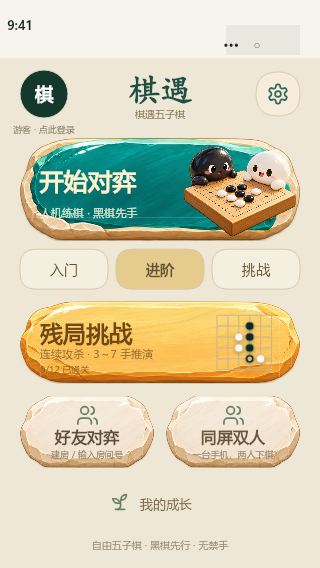
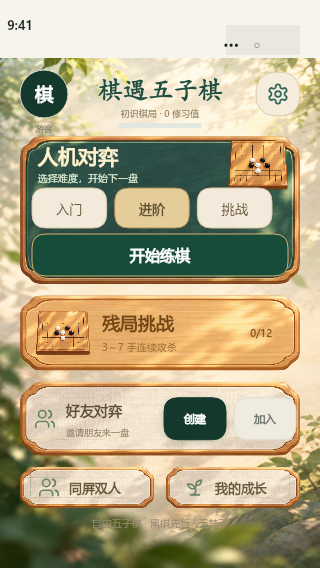
refine: match lobby to sunlit garden game style

diff --git a/game/scenes/homeScene.js b/game/scenes/homeScene.js
@@ -14,7 +14,7 @@ const { toUserMessage } = require('../../utils/userFacingError');
 const progressStore = require('../../utils/progressStore');
 const localMatchStore = require('../../utils/localMatchStore');
 const roomSession = require('../../utils/roomSession');
-const { drawMiniBoard } = require('../renderers/practiceRenderer');
+const { drawMiniBoard, drawProgressBar } = require('../renderers/practiceRenderer');
 const { drawIcon } = require('../renderers/iconRenderer');
 const lobby = require('../renderers/lobbyRenderer');
 const puzzles = require('../../utils/puzzles');
@@ -142,33 +142,38 @@ class HomeScene {
 
   getLayout() {
     const playerY = getContentTop(this.runtime.wx) + 2;
-    const start = playerY + 68;
-    const bottom = this.runtime.height - (this.runtime.bottomInset || 18) - 26;
+    const start = playerY + 66;
+    const bottom = this.runtime.height - (this.runtime.bottomInset || 18) - 14;
     const available = bottom - start;
-    const flexible = available - 128;
-    const primaryHeight = Math.min(178, flexible * 0.4);
-    const puzzleHeight = Math.min(140, flexible * 0.32);
-    const pairHeight = Math.min(104, flexible * 0.28);
-    return { playerY, start, primaryHeight, puzzleHeight, pairHeight, compact: available < 425 };
+    const budget = Math.max(0, available - 58);
+    const clamp = (value, minimum, maximum) => Math.max(minimum, Math.min(maximum, value));
+    const primaryHeight = clamp(budget * 0.4, 148, 184);
+    const puzzleHeight = clamp(budget * 0.22, 72, 102);
+    const friendHeight = clamp(budget * 0.21, 74, 98);
+    const dockHeight = clamp(budget * 0.12, 40, 54);
+    const sectionHeight = primaryHeight + puzzleHeight + friendHeight + dockHeight + 58;
+    const gap = clamp((available - sectionHeight + 30) / 3, 10, 34);
+    return { playerY, start, primaryHeight, puzzleHeight, friendHeight, dockHeight, gap, compact: available < 425 };
   }
   getActionLayout(layout = this.getLayout()) {
     const width = this.runtime.width;
     const x = 20; const w = width - 40; const half = (w - 12) / 2;
     const ai = { x, y: layout.start, width: w, height: layout.primaryHeight };
-    const difficultyY = ai.y + ai.height + 8;
-    const puzzle = { x, y: difficultyY + 52, width: w, height: layout.puzzleHeight };
-    const pairY = puzzle.y + puzzle.height + 12;
-    const friend = { x, y: pairY, width: half, height: layout.pairHeight };
-    const sheetY = Math.max(getContentTop(this.runtime.wx), (this.runtime.height - 266) / 2);
-    const create = { x: 40, y: sheetY + 116, width: width - 80, height: 44 };
-    const join = { x: 40, y: sheetY + 176, width: width - 80, height: 44 };
-    const dockY = pairY + layout.pairHeight + 12;
-    return { ai, difficultyY, puzzle, friend, create, join,
-      local: { x: x + half + 12, y: pairY, width: half, height: layout.pairHeight },
-      growth: { x, y: dockY, width: w, height: 44 },
-      fresh: { x: width - 160, y: difficultyY, width: 140, height: 40 },
+    const difficultyY = ai.y + (layout.compact ? 52 : 70);
+    const startButton = { x: x + 12, y: ai.y + ai.height - 50, width: w - 24, height: 42 };
+    const puzzle = { x, y: ai.y + ai.height + layout.gap, width: w, height: layout.puzzleHeight };
+    const pairY = puzzle.y + puzzle.height + layout.gap;
+    const friend = { x, y: pairY, width: w, height: layout.friendHeight };
+    const quickWidth = Math.min(74, Math.max(62, (w - 164) / 2));
+    const create = { x: width - 24 - quickWidth * 2 - 8, y: friend.y + (friend.height - 42) / 2, width: quickWidth, height: 42 };
+    const join = { x: create.x + quickWidth + 8, y: create.y, width: quickWidth, height: 42 };
+    const fresh = { x: startButton.x + startButton.width - 66, y: difficultyY, width: 58, height: 40 };
+    const dockY = friend.y + friend.height + layout.gap;
+    const growth = { x: x + half + 12, y: dockY, width: half, height: layout.dockHeight };
+    return { ai: startButton, hero: ai, difficultyY, startButton, puzzle, friend, create, join, fresh,
+      local: { x, y: dockY, width: half, height: layout.dockHeight }, growth,
       settings: { x: width - 64, y: layout.playerY + 2, width: 44, height: 44 },
-      noteY: dockY + 64 };
+      noteY: growth.y + layout.dockHeight + 14 };
   }
 
   render(ctx, input) {
@@ -176,62 +181,62 @@ class HomeScene {
     const layout = this.getLayout(); const actions = this.getActionLayout(layout);
     const data = progressStore.read(wx); const resume = localMatchStore.load(wx); const room = roomSession.read(wx);
     const atlas = lobby.loadAtlas(wx, this.onImageReady);
-    ctx.fillStyle = '#EEE7D6'; ctx.fillRect(0, 0, width, height);
+    const backdrop = lobby.loadBackdrop(wx, this.onImageReady);
+    ctx.fillStyle = '#F2ECDF'; ctx.fillRect(0, 0, width, height);
+    if (backdrop) ctx.drawImage(backdrop, 0, 0, width, height);
     drawAvatar(ctx, wx, this.player, 20, layout.playerY, 48, this.onImageReady);
-    drawLabel(ctx, this.player ? '我的棋遇' : '游客 · 点此登录', 44, layout.playerY + 59, 'center', { size: 9, color: '#81755E' });
+    drawLabel(ctx, this.player ? this.player.nickname : '游客', 44, layout.playerY + 58, 'center', { size: 9, color: '#81755E', maxWidth: 62 });
     if (this.player || !this.userInfoButton) input.addHitArea({ x: 20, y: layout.playerY, width: 48, height: 48 }, () => {
       if (!this.player) { this.loginWithWeChat(); return; }
       this.sheet = 'player'; this.stopAnimation(); manager.render();
     });
-    ctx.fillStyle = '#214E42'; ctx.font = '700 32px "STKaiti", "KaiTi", serif'; ctx.textAlign = 'center'; ctx.textBaseline = 'middle';
-    ctx.fillText('棋遇', width / 2, layout.playerY + 18);
-    drawLabel(ctx, '棋遇五子棋', width / 2, layout.playerY + 43, 'center', { size: 10, color: '#837456' });
+    ctx.fillStyle = '#214E42'; ctx.font = '700 25px "STKaiti", "KaiTi", serif'; ctx.textAlign = 'center'; ctx.textBaseline = 'middle';
+    ctx.fillText('棋遇五子棋', width / 2, layout.playerY + 18);
+    const rank = progressStore.level(data);
+    drawLabel(ctx, `${rank.title} · ${data.xp} 修习值`, width / 2, layout.playerY + 43, 'center', { size: 9, color: '#837456' });
+    drawProgressBar(ctx, width / 2 - 42, layout.playerY + 53, 84, rank.ratio);
     lobby.drawIconButton(ctx, input, actions.settings, 'settings', () => manager.go('settings'));
 
-    lobby.drawPlate(ctx, actions.ai, 'jade', atlas);
-    const offset = this.animationStart ? Math.sin((Date.now() - this.animationStart) / 300) * 2 : 0;
-    lobby.drawFriends(ctx, atlas, { x: width - 136, y: actions.ai.y + 8 + offset, width: 112, height: actions.ai.height - 12 });
-    drawLabel(ctx, resume ? '继续棋局' : '开始对弈', 40, actions.ai.y + actions.ai.height * 0.42, 'left', { size: width < 350 ? 24 : 28, bold: true, color: '#FFF2CD' });
-    drawLabel(ctx, resume ? (resume.mode === 'puzzle' ? '继续上次的残局' : '继续上次的人机局') : '人机练棋 · 黑棋先手', 40, actions.ai.y + actions.ai.height * 0.72, 'left', { size: 11, color: '#DAE9CF', maxWidth: width - 165 });
-    input.addHitArea(actions.ai, () => resume ? manager.go(resume.mode === 'puzzle' ? 'puzzleGame' : 'aiGame', { resume, puzzleId: resume.puzzleId }) : manager.go('aiGame'));
-    lobby.pressOverlay(ctx, input, actions.ai);
-    const difficultyWidth = (width - 56) / 3;
+    lobby.drawPlate(ctx, actions.hero, 'jade', atlas);
+    const offset = this.animationStart ? Math.sin((Date.now() - this.animationStart) / 300) * 1.5 : 0;
+    const vignetteSize = layout.compact ? 60 : 92;
+    lobby.drawFriends(ctx, atlas, { x: width - vignetteSize - 32, y: actions.hero.y + 5 + offset, width: vignetteSize, height: vignetteSize * 0.81 });
+    drawLabel(ctx, resume ? '继续对弈' : '人机对弈', 38, actions.hero.y + 20, 'left', { size: 20, bold: true, color: '#FFF2CD', maxWidth: width - 170 });
+    drawLabel(ctx, resume ? (resume.mode === 'puzzle' ? '上次残局已为你保存' : '接着上次的棋局继续') : '选择难度，开始下一盘', 38, actions.hero.y + 41, 'left', { size: 10, color: '#DAE9CF', maxWidth: width - 170 });
+    const difficultyWidth = (width - 96) / 3;
     if (resume) {
-      drawLabel(ctx, resume.mode === 'puzzle' ? '还有一道残局未完成' : '上次的人机局未结束', 24, actions.difficultyY + 20, 'left', { size: 11, color: '#8B7957', maxWidth: width - 192 });
-      drawButton(ctx, input, { ...actions.fresh, text: '新开人机局', variant: 'gold', fontSize: 13, onTap: () => manager.go('aiGame') });
+      drawLabel(ctx, '继续上局', 28, actions.difficultyY + 20, 'left', { size: 12, color: '#8B7957' });
     } else [['easy','入门'],['normal','进阶'],['hard','挑战']].forEach(([id,label], index) => {
-      const rect = { x: 20 + index * (difficultyWidth + 8), y: actions.difficultyY, width: difficultyWidth, height: 40 };
-      drawCard(ctx, { ...rect, radius: 16, fill: data.settings.difficulty === id ? '#E6CB8E' : '#F5EFDF', stroke: '#D8C9A9', shadow: false });
-      drawLabel(ctx, label, rect.x + rect.width / 2, rect.y + 20, 'center', { size: 14, bold: data.settings.difficulty === id, color: '#645235' });
+      const rect = { x: 32 + index * (difficultyWidth + 8), y: actions.difficultyY, width: difficultyWidth, height: 40 };
+      drawCard(ctx, { ...rect, radius: 14, fill: data.settings.difficulty === id ? '#E4CD98' : '#F3EADC', stroke: data.settings.difficulty === id ? '#AB8B51' : '#D8C9A9', shadow: false });
+      drawLabel(ctx, label, rect.x + rect.width / 2, rect.y + 20, 'center', { size: 13, bold: data.settings.difficulty === id, color: '#645235' });
       input.addHitArea(rect, () => { progressStore.setSetting(wx, 'difficulty', id); manager.render(); });
     });
+    const startText = resume ? '继续这盘' : '开始练棋';
+    drawButton(ctx, input, { ...actions.startButton, text: startText, variant: 'primary', fill: '#174B3A', stroke: '#D2B16D', fontSize: 15, onTap: () => resume ? manager.go(resume.mode === 'puzzle' ? 'puzzleGame' : 'aiGame', { resume, puzzleId: resume.puzzleId }) : manager.go('aiGame') });
+    if (resume) drawButton(ctx, input, { ...actions.fresh, text: '新开', variant: 'gold', fontSize: 12, onTap: () => manager.go('aiGame') });
 
     lobby.drawPlate(ctx, actions.puzzle, 'gold', atlas);
-    drawLabel(ctx, '残局挑战', 40, actions.puzzle.y + actions.puzzle.height * 0.38, 'left', { size: width < 350 ? 23 : 26, bold: true, color: '#714716' });
-    drawLabel(ctx, '连续攻杀 · 3～7 手推演', 40, actions.puzzle.y + actions.puzzle.height * 0.63, 'left', { size: 11, color: '#946A31' });
-    const boardSize = Math.min(66, actions.puzzle.height - 28);
-    drawMiniBoard(ctx, width - 103, actions.puzzle.y + (actions.puzzle.height - boardSize) / 2, boardSize);
+    const puzzleBoardSize = Math.min(58, actions.puzzle.height - 16);
+    lobby.drawFriends(ctx, atlas, { x: actions.puzzle.x + 14, y: actions.puzzle.y + (actions.puzzle.height - puzzleBoardSize * 0.76) / 2, width: puzzleBoardSize, height: puzzleBoardSize * 0.76 });
+    drawLabel(ctx, '残局挑战', actions.puzzle.x + 82, actions.puzzle.y + actions.puzzle.height * 0.37, 'left', { size: width < 350 ? 18 : 20, bold: true, color: '#714716' });
+    drawLabel(ctx, '3～7 手连续攻杀', actions.puzzle.x + 82, actions.puzzle.y + actions.puzzle.height * 0.68, 'left', { size: 10, color: '#946A31', maxWidth: width - 148 });
     const cleared = puzzles.CHALLENGES.filter(puzzle => data.puzzles[puzzle.id]).length;
-    drawLabel(ctx, `${cleared}/12 已通关`, 40, actions.puzzle.y + actions.puzzle.height * 0.82, 'left', { size: 9, color: '#8A5D28' });
+    drawLabel(ctx, `${cleared}/12`, width - 48, actions.puzzle.y + actions.puzzle.height * 0.5, 'right', { size: 10, bold: true, color: '#8A5D28' });
     input.addHitArea(actions.puzzle, () => manager.go('puzzleList')); lobby.pressOverlay(ctx, input, actions.puzzle);
 
     lobby.drawPlate(ctx, actions.friend, 'cream', atlas);
-    const showPairIcons = actions.friend.height >= 70;
-    if (showPairIcons) drawIcon(ctx, 'users', actions.friend.x + actions.friend.width / 2 - 11, actions.friend.y + 8, 23, '#668367');
-    drawLabel(ctx, '好友对弈', actions.friend.x + actions.friend.width / 2, actions.friend.y + actions.friend.height * (showPairIcons ? 0.57 : 0.4), 'center', { size: width < 350 ? 16 : 18, bold: true, color: '#5C503B' });
-    drawLabel(ctx, room ? '有未结束的好友房' : '建房 / 输入房间号', actions.friend.x + actions.friend.width / 2, actions.friend.y + actions.friend.height * 0.81, 'center', { size: 9, color: '#92816B' });
-    input.addHitArea(actions.friend, () => { this.sheet = 'friend'; this.destroyWeChatLoginButton(); this.stopAnimation(); manager.render(); });
-    lobby.pressOverlay(ctx, input, actions.friend);
-    [[actions.local,'users','同屏双人','localGame']].forEach(([rect, icon, label, scene]) => {
+    drawIcon(ctx, 'users', actions.friend.x + 14, actions.friend.y + actions.friend.height / 2 - 11, 22, '#668367');
+    drawLabel(ctx, '好友对弈', actions.friend.x + 46, actions.friend.y + actions.friend.height * 0.38, 'left', { size: width < 350 ? 14 : 17, bold: true, color: '#5C503B' });
+    drawLabel(ctx, room ? '好友房已保存' : '邀请朋友来一盘', actions.friend.x + 46, actions.friend.y + actions.friend.height * 0.68, 'left', { size: 9, color: '#92816B', maxWidth: actions.create.x - actions.friend.x - 52 });
+    drawButton(ctx, input, { ...actions.create, text: room ? '继续' : '创建', variant: 'primary', fontSize: 11, onTap: () => room ? manager.go(room.waiting ? 'waitRoom' : 'onlineGame', room) : manager.go('createRoom') });
+    drawButton(ctx, input, { ...actions.join, text: '加入', variant: 'gold', fontSize: 11, onTap: () => manager.go('joinRoom') });
+    [[actions.local,'users','同屏双人','localGame'],[actions.growth,'sprout','我的成长','growth']].forEach(([rect, icon, label, scene]) => {
       lobby.drawPlate(ctx, rect, 'cream', atlas);
-      if (showPairIcons) drawIcon(ctx, icon, rect.x + rect.width / 2 - 11, rect.y + 8, 23, '#668367');
-      drawLabel(ctx, label, rect.x + rect.width / 2, rect.y + rect.height * (showPairIcons ? 0.57 : 0.4), 'center', { bold: true, size: width < 350 ? 16 : 18, color: '#65583D' });
-      drawLabel(ctx, '一台手机，两人下棋', rect.x + rect.width / 2, rect.y + rect.height * 0.81, 'center', { size: 9, color: '#92816B' });
+      drawIcon(ctx, icon, rect.x + 18, rect.y + (rect.height - 22) / 2, 22, '#668367');
+      drawLabel(ctx, label, rect.x + 49, rect.y + rect.height / 2, 'left', { bold: true, size: width < 350 ? 13 : 14, color: '#65583D' });
       input.addHitArea(rect, () => manager.go(scene)); lobby.pressOverlay(ctx, input, rect);
     });
-    drawIcon(ctx, 'sprout', width / 2 - 51, actions.growth.y + 11, 22, '#668367');
-    drawLabel(ctx, '我的成长', width / 2 - 20, actions.growth.y + 23, 'left', { size: 13, color: '#7C6A4B' });
-    input.addHitArea(actions.growth, () => manager.go('growth'));
     drawLabel(ctx, '自由五子棋 · 黑棋先行 · 无禁手', width / 2, actions.noteY, 'center', { size: 10, color: '#9A8B73' });
     if (this.sheet === 'player') this.drawPlayerSheet(ctx, input, data);
     if (this.sheet === 'friend') this.drawFriendSheet(ctx, input, room);

diff --git a/game/renderers/lobbyRenderer.js b/game/renderers/lobbyRenderer.js
@@ -1,9 +1,11 @@
 const { drawCard, roundedRectPath } = require('./cardRenderer');
 const { drawIcon } = require('./iconRenderer');
 const caches = new WeakMap();
+const backdropCaches = new WeakMap();
 const ATLAS = 'assets/lobby-sprites.png';
+const BACKDROP = 'assets/lobby-garden.jpg';
 // Atlas bounds are verified by the native Canvas preview; no generated text is used.
-const REGIONS = { jade: [20,241,598,241], gold: [636,241,599,241], cream: [21,818,599,236], friends: [659,713,557,447] };
+const REGIONS = { jade: [13,271,603,249], gold: [641,272,601,249], cream: [13,791,602,252], friends: [665,620,556,453] };
 
 function loadAtlas(wxApi, onReady) {
   if (!wxApi || !wxApi.createImage) return null;
@@ -22,6 +24,23 @@ function loadAtlas(wxApi, onReady) {
   return null;
 }
 
+function loadBackdrop(wxApi, onReady) {
+  if (!wxApi || !wxApi.createImage) return null;
+  let entry = backdropCaches.get(wxApi);
+  if (entry) {
+    if (entry.ready) return entry.image;
+    if (!entry.failed && onReady) entry.callbacks.add(onReady);
+    return null;
+  }
+  const image = wxApi.createImage();
+  entry = { image, ready: false, failed: false, callbacks: new Set(onReady ? [onReady] : []) };
+  backdropCaches.set(wxApi, entry);
+  image.onload = () => { entry.ready = true; entry.callbacks.forEach(callback => callback()); entry.callbacks.clear(); };
+  image.onerror = () => { entry.failed = true; entry.callbacks.clear(); };
+  image.src = BACKDROP;
+  return null;
+}
+
 function drawPlate(ctx, rect, kind, atlas) {
   if (!atlas) {
     drawCard(ctx, { ...rect, radius: 22, fill: { jade: '#227568', gold: '#F2C46F', cream: '#F7EEDC' }[kind], stroke: '#D6BC83' });
@@ -29,7 +48,7 @@ function drawPlate(ctx, rect, kind, atlas) {
   }
   const [sx, sy, sw, sh] = REGIONS[kind];
   // Nine-slice retains the painted bevel when panels have different proportions.
-  const edge = 54; const target = Math.min(24, rect.width / 4, rect.height / 4);
+  const edge = 54; const target = Math.min(16, rect.width / 4, rect.height / 4);
   const srcX = [sx, sx + edge, sx + sw - edge]; const srcY = [sy, sy + edge, sy + sh - edge];
   const srcW = [edge, sw - 2 * edge, edge]; const srcH = [edge, sh - 2 * edge, edge];
   const dstX = [rect.x, rect.x + target, rect.x + rect.width - target]; const dstY = [rect.y, rect.y + target, rect.y + rect.height - target];
@@ -53,4 +72,4 @@ function pressOverlay(ctx, input, rect) {
   ctx.save(); roundedRectPath(ctx, rect.x, rect.y, rect.width, rect.height, 22);
   ctx.fillStyle = 'rgba(34,52,41,.12)'; ctx.fill(); ctx.restore();
 }
-module.exports = { loadAtlas, drawPlate, drawFriends, drawIconButton, pressOverlay };
+module.exports = { loadAtlas, loadBackdrop, drawPlate, drawFriends, drawIconButton, pressOverlay };

diff --git a/scripts/verify-lobby.js b/scripts/verify-lobby.js
@@ -23,10 +23,14 @@ function verifyLobbyAndSettings() {
   wx.createUserInfoButton = options => { const button = { options, onTap() {}, destroy() { this.destroyed = true; } }; native.push(button); return button; };
   manager.go('home'); let home = manager.current;
   assert.equal(native[0].options.style.width, 48, 'native login must cover only the compact avatar');
-  tap(manager, home.getActionLayout().friend);
-  assert.equal(home.sheet, 'friend'); assert(native[0].destroyed);
-  home.onHide(); home.onResume(); assert.equal(native.length, 1, 'native login must not overlay an open sheet after foregrounding');
-  home.closeSheet(); assert.equal(native.length, 2);
+  manager.runtime.cloud.createRoom = () => new Promise(() => {});
+  tap(manager, home.getActionLayout().create);
+  assert.equal(manager.current.constructor.name, 'CreateRoomScene', 'create-room action must be available directly from the lobby');
+  assert(native[0].destroyed);
+  manager.go('home'); home = manager.current;
+  tap(manager, home.getActionLayout().join);
+  assert.equal(manager.current.constructor.name, 'JoinRoomScene', 'join-room action must be available directly from the lobby');
+  manager.go('home'); home = manager.current;
   savePlayer(wx, 'local-test-only', { nickName: '棋友测试' }); manager.go('home'); home = manager.current;
   tap(manager, { x: 20, y: home.getLayout().playerY, width: 48, height: 48 });
   assert.equal(home.sheet, 'player');
@@ -62,7 +66,7 @@ function verifyLobbyAndSettings() {
   assert.equal(manager.current.mode,'ai'); assert.equal(manager.current.moves,0);
   assert.notEqual(manager.current.id, previousId, 'fresh entry must start a new match');
   manager.go('home');
-  console.log('Compact avatar, modal isolation, independent settings, real music loop and lifecycle verified');
+  console.log('Compact avatar, direct friend-room actions, independent settings, real music loop and lifecycle verified');
 }
 
 function verifyAnimation() {

diff --git a/docs/LOBBY_DESIGN_RC17.md b/docs/LOBBY_DESIGN_RC17.md
@@ -1,6 +1,6 @@
 # RC17 大厅与残局设计
 
-本轮以负责人认可的第二张概念图为风格依据，保留暖木、青绿、奶油色和棋子质感。按后续反馈收掉大型场景，将可操作玩法放在画面主体。实现仍在原有微信小游戏 Canvas 中，概念图不作为整屏背景，文字、触摸区与设置均由实际代码绘制和处理。
+本次复调以负责人最新偏好的第一张概念图为风格方向：林间日光、实木棋桌、青玉与暖纸。吸收其美术气质，同时把人机难度和开始操作、残局、好友建房/加入直接放进首页，让棋盘只作为小插图。页面继续使用原有微信小游戏 Canvas；背景与控件素材分离，中文文本、触摸区和实际数据都由代码绘制。
 
 ## 真实页面
 
@@ -13,10 +13,10 @@
 ## 布局与交互
 
 - 顶部紧凑头像、品牌和独立齿轮。头像展开详情与资料入口；游客的官方微信授权按钮仅覆盖头像。
-- 人机为主入口，三档难度可在大厅选择并记忆；有存档时可继续，也可直接新开人机局。
-- 残局为暖金入口；好友与同屏形成下方并列玩法。好友入口展开建房、进房，支持恢复等待房或对局房。
+- 人机区把三档难度和开始练棋放在同一入口；有存档时可继续，也可新开人机局。
+- 残局使用独立的横向入口；好友房把创建和加入房间按钮直接展示在首页。下方并列同屏对弈与成长入口。
 - 成长收在下方入口，首页不展示完整个人信息、战绩表或成长面板。
-- 图像只提供按钮纹理和小棋子插画。图片异步读取、缓存复用；触摸释放才触发操作，弹层独占输入。
+- 背景是低对比的庭院日光氛围图；面板是克制的木作、玉漆和暖纸纹理。小棋盘缩在主入口与残局入口内。图片异步读取、缓存复用；触摸释放才触发操作，弹层独占输入。
 - 大厅棋子短暂入场，最多约 2.2 秒，重绘间隔不少于 42 ms，结束后静止。后台与离场取消帧，设置可关闭动效。
 - 落子音效、背景音乐、自己落子震动分别控制。原创 12 秒轻声拨弦循环默认关闭，玩家触摸后才可播放；后台暂停，恢复时按开关继续，普通点击不重启音乐。
 
@@ -32,7 +32,8 @@
 
 ## 素材与参考
 
-- `assets/lobby-sprites.png`：本轮生成的透明素材图集，约 1.02 MiB，仅 4 个部件；渲染器保留真实绘制的备用按钮。
+- `assets/lobby-sprites.png`：本轮生成的透明素材图集，约 1.24 MiB，包括深玉主面板、暖木残局面板、纸纹副面板和俯视棋盘插画。
+- `assets/lobby-garden.jpg`：日光庭院的浅景背景，约 172 KiB；文字和操作区保持清晰。
 - `assets/lobby-music.wav`：原创拨弦音列，由 `scripts/generate-lobby-music.py` 可复现生成，无外部录音采样。
 - 图标从 [Lucide](https://lucide.dev/license) 0.468.0 转成少量原生 Canvas 路径，许可保留在 `assets/LUCIDE-LICENSE.txt`，运行时不引入 npm 依赖。
 - 用户提供的游戏截图是主要视觉依据。网络检索资料包括 [王者荣耀官方大厅入口优化](https://www.taptap.cn/moment/644255183525642580)、[球球大作战入坑指南](https://wiki.biligame.com/bob/%E5%85%A5%E5%9D%91%E6%8C%87%E5%8D%97)、[贪吃蛇大作战应用页](https://app.mi.com/details?id=com.wepie.snake.new.mi)。部分远程图片直链无法读取，不将其当作已完整查看的画面证据。

diff --git a/docs/PROJECT_PROGRESS.md b/docs/PROJECT_PROGRESS.md
@@ -1,7 +1,13 @@
 # 棋遇五子棋 - 项目进度
 
-> 最后更新：2026-09-30
-> 当前结论：负责人反馈棋遇五子棋已正式上架并可搜索，并已真机体验 RC16，指出首页设计与关卡难度未达预期。RC17 按后续反馈重新实现紧凑游戏大厅、独立设置与 12 道 3～7 手挑战，本地自动门禁通过；本轮未上传或发布新版，也未进行 RC17 真机验收。以下按日期保留历史记录。
+> 最后更新：2026-10-08
+> 当前结论：负责人反馈棋遇五子棋已正式上架并可搜索，并已真机体验 RC16。RC17 完成紧凑游戏大厅、独立设置与 12 道 3～7 手挑战的自动验证；10 月 8 日收到对首页风格的进一步意见，已开始复调首页：采用负责人偏好的第一张图的林间日光与木棋桌气质，强化玩法入口的可见性。当前首页修改只有 Canvas 桌面预览，尚未重新自动验证或真机验收。未上传或发布新版。以下按日期保留历史记录。
+
+## 2026-10-08 RC17 首页视觉复调
+
+- 依据负责人最新反馈，保留第一张图的林间日光、实木棋桌、青玉与暖纸氛围；把主页调整为可直接操作的大厅：人机难度与开始练棋同区展示，残局、好友建房/加入、同屏与成长入口都能在首屏找到。
+- 棋盘缩成主玩法区与残局区的小插画，青玉漆、实木与暖纸纹理只服务按钮和入口，补入轻柔的庭院日光背景。
+- 这是在已提交 RC17 上继续修改；更新桌面 Canvas 页面预览与设计说明。当前轮未运行自动测试，尚未做新真机验收。未发布。
 
 ## 2026-09-30 RC17 游戏大厅与烧脑残局
 
